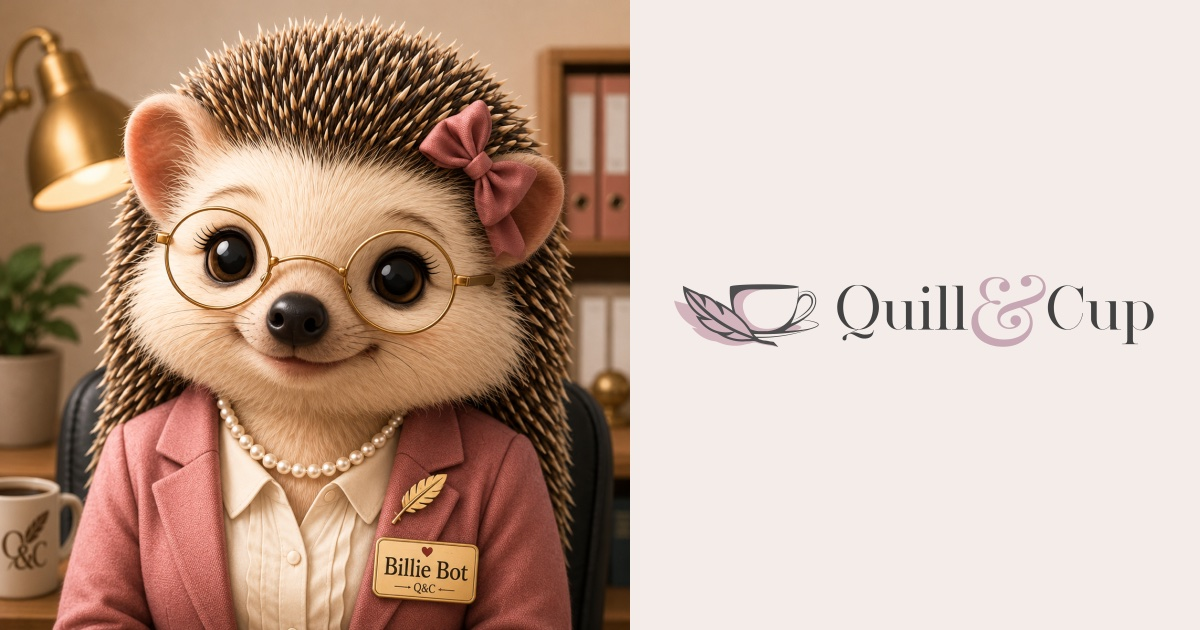
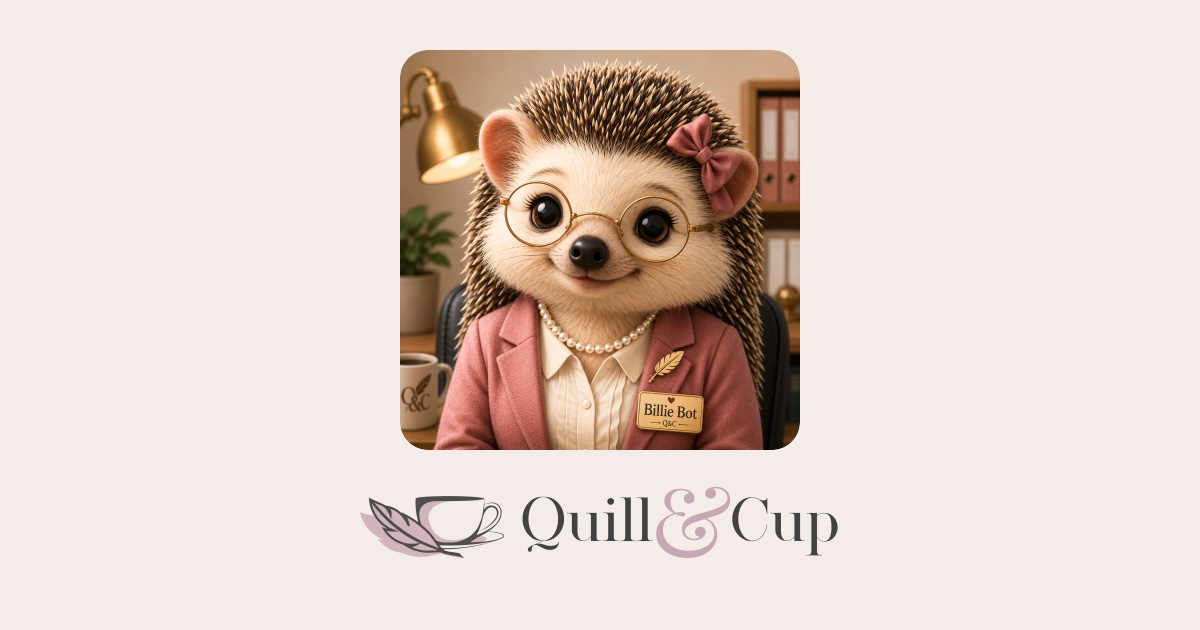
Link unfurls: one centered 1200x630 og:image, drop the separate square (#178)
Slack ignored twitter-image and center-cropped og:image to a square, so the
card is now a centered lockup that reads in both the wide and square views.

diff --git a/tests/components/link-unfurl-metadata.test.ts b/tests/components/link-unfurl-metadata.test.ts
@@ -1,6 +1,6 @@
 /**
  * Link unfurls (Slack, Facebook, LinkedIn) need an absolute og:image and a twitter card. Next builds
- * the image tags from app/opengraph-image.jpg and app/twitter-image.jpg, sized per platform.
+ * the image tags from app/opengraph-image.jpg, 1200x630.
  */
 import { describe, it, expect, vi } from "vitest";
 import fs from "node:fs";
@@ -43,23 +43,18 @@ function bytes(file: string): number {
 }
 
 describe("link unfurl metadata", () => {
-  it("resolves image URLs against the app URL and asks for a square summary card", async () => {
+  it("resolves image URLs against the app URL and asks for a large twitter card", async () => {
     const { metadata } = await import("@/app/layout");
     expect(String(metadata.metadataBase)).toBe(`${APP_URL}/`);
     expect(metadata.openGraph).toMatchObject({ siteName: appConfig.appName, type: "website" });
-    expect(metadata.twitter).toMatchObject({ card: "summary" });
+    expect(metadata.twitter).toMatchObject({ card: "summary_large_image" });
   });
 
-  it("has a 1.91:1 og:image for Facebook and LinkedIn", () => {
+  it("has one 1.91:1 og:image; Slack crops its central square, so the content is centered", () => {
     expect(jpegSize("opengraph-image.jpg")).toEqual({ width: 1200, height: 630 });
   });
 
-  it("has a square twitter:image for Slack's thumbnail", () => {
-    expect(jpegSize("twitter-image.jpg")).toEqual({ width: 630, height: 630 });
-  });
-
-  it("keeps both images small enough for Slack to fetch", () => {
+  it("keeps the image small enough for Slack to fetch", () => {
     expect(bytes("opengraph-image.jpg")).toBeLessThan(MAX_BYTES);
-    expect(bytes("twitter-image.jpg")).toBeLessThan(MAX_BYTES);
   });
 });

diff --git a/app/layout.tsx b/app/layout.tsx
@@ -36,7 +36,7 @@ export const metadata: Metadata = {
   description:
     "The Quill & Cup member hub: find prickles and events, track your writing streaks and projects, and connect with fellow writers.",
   openGraph: { siteName: appConfig.appName, type: "website" },
-  twitter: { card: "summary" },
+  twitter: { card: "summary_large_image" },
   icons: {
     icon: '/icon.png',
     apple: '/billiebot.png',
